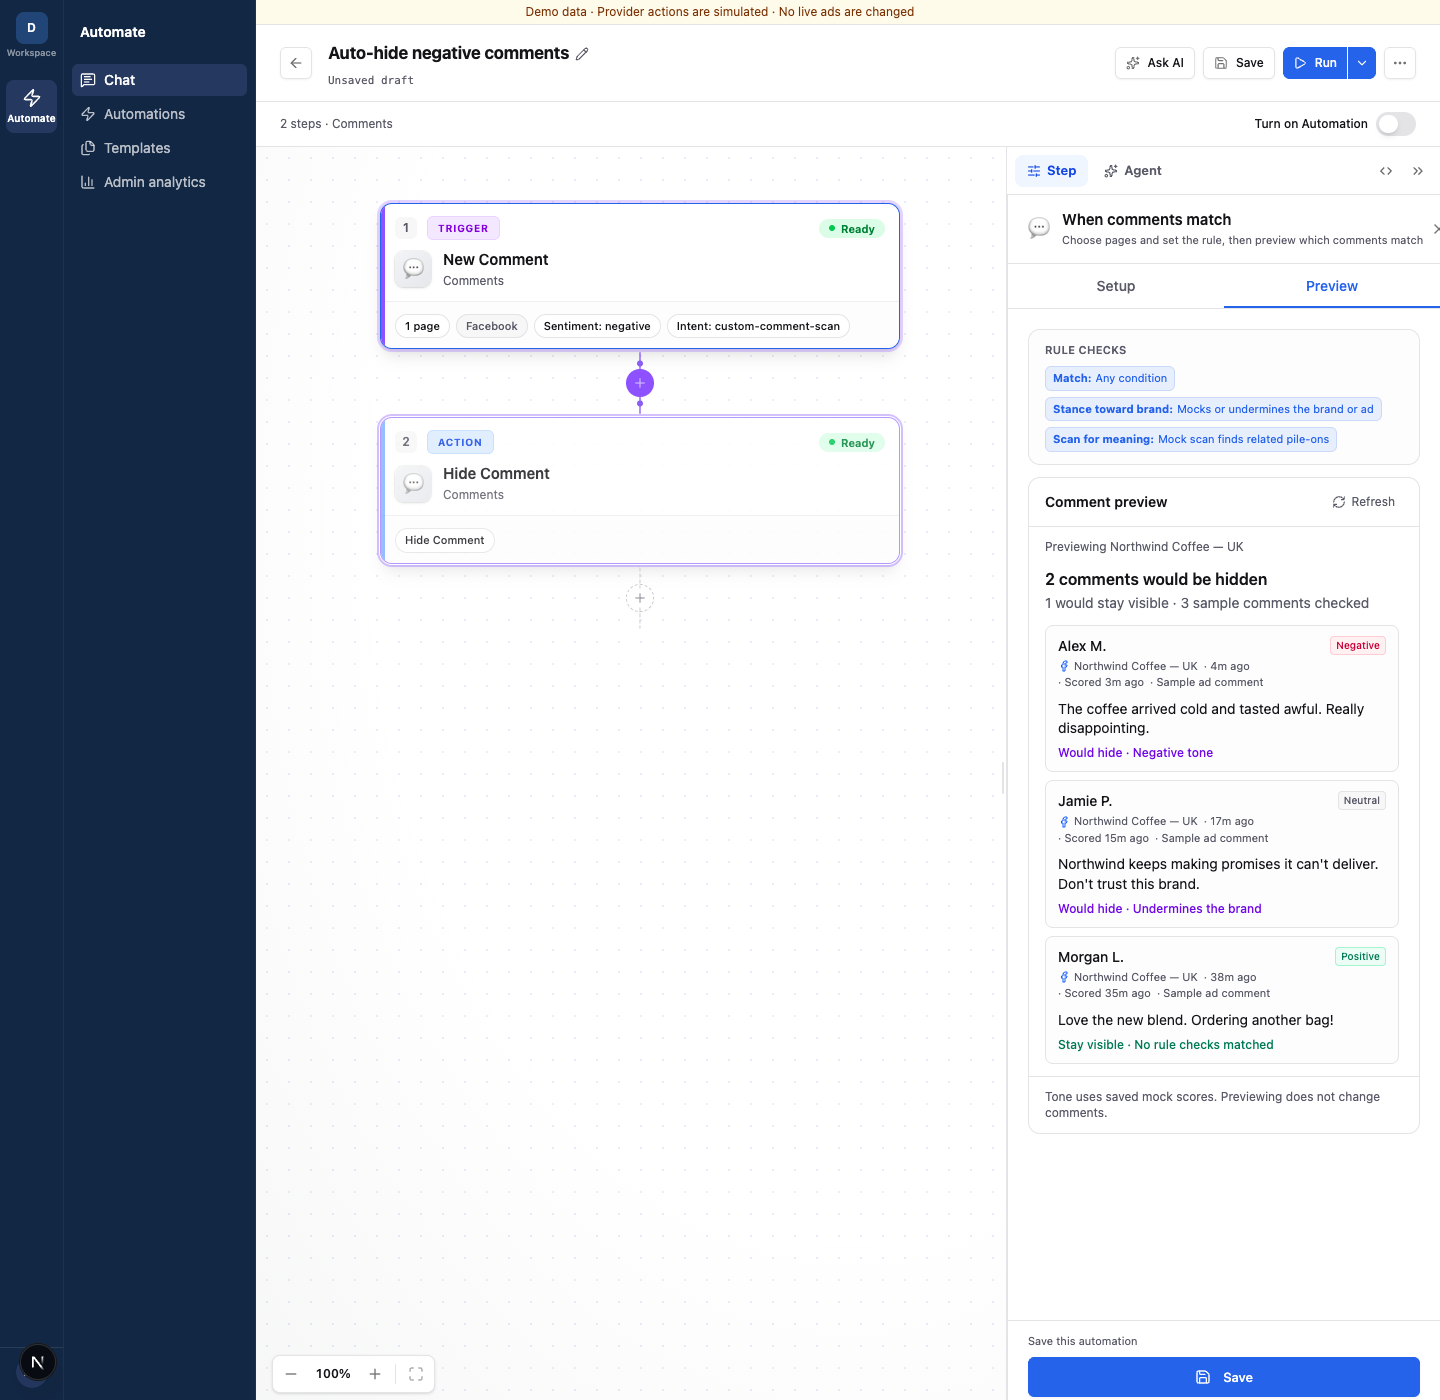
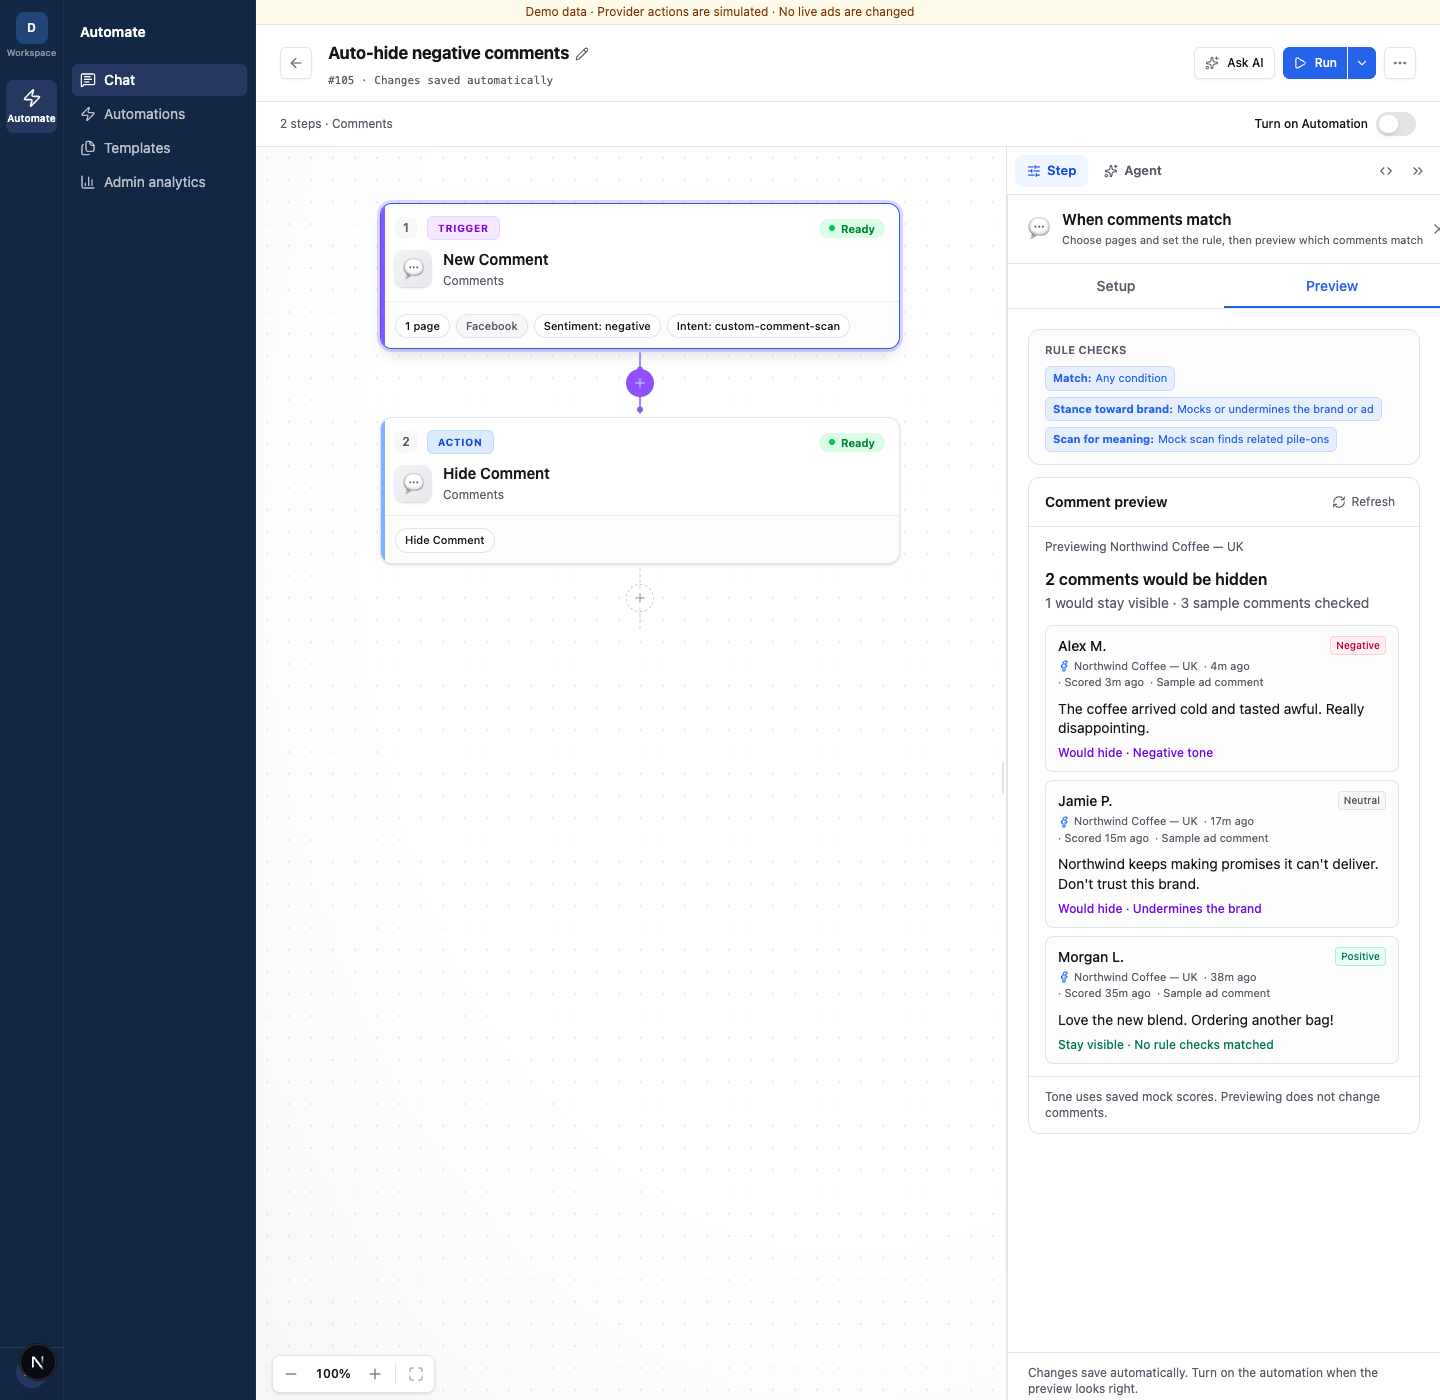
Autosave comment automation drafts

Changed region(s): [[0.6875, 0.9521, 1.0, 1.0], [0.7812, 0.0307, 0.875, 0.0614], [0.4375, 0.2764, 0.4688, 0.3071]]

diff --git a/app/(dashboard)/automation/components/automation-header.tsx b/app/(dashboard)/automation/components/automation-header.tsx
@@ -59,7 +59,7 @@ import {
 } from "../_features/comment-automation/hooks/use-comment-automation-members";
 import { RunPagesDialog } from "../_features/comment-automation/components/run-pages-dialog";
 import { automationTemplates } from "../lib/automation-templates";
-import { actionEventToType, isCommentAutomationFlow } from "../lib/comment-flow-mapper";
+import { actionEventToType, isCommentAutomationFlow, readCommentPageIdsFromFlow } from "../lib/comment-flow-mapper";
 import { buildCommentActionRuleSummary } from "../lib/comment-action-setup-summary";
 import { useUser } from "@/lib/providers/user-provider";
 import { canManageAutomationBySource, canManageAutomationRules } from "@/lib/automation/automation-access";
@@ -85,6 +85,7 @@ export function AutomationHeader({ onBackToTable, isAssistantActive, onAskAiTogg
   const {
     flow,
     editorIdentity,
+    updateFlowName,
     setFlowActive,
     exportFlow,
     importFlowAsNew,
@@ -130,9 +131,53 @@ export function AutomationHeader({ onBackToTable, isAssistantActive, onAskAiTogg
   // saves are known, so it stays null until the user saves.
   const [savedAt, setSavedAt] = useState<Date | null>(null);
   const [identityNow, setIdentityNow] = useState<Date | null>(null);
+  const [autoSaveState, setAutoSaveState] = useState<"waiting" | "pending" | "saving" | "saved" | "error">("waiting");
+  const [autoSaveRetry, setAutoSaveRetry] = useState(0);
+  const lastAutoSavedFingerprintRef = useRef<string | null>(null);
+  const failedAutoSaveFingerprintRef = useRef<string | null>(null);
 
   const isEditorIdentityReady = editorIdentity.canMutate;
   const getExistingAutomationId = (): number | null => editorIdentity.existingRuleId;
+  const commentPageCount = isCommentAutomation ? readCommentPageIdsFromFlow(flow.nodes).length : 0;
+  const commentFingerprint = JSON.stringify({ name: flow.name, nodes: flow.nodes, accountId: flow.selectedAccountId });
+
+  useEffect(() => {
+    if (!isCommentAutomation || !canManageAutomations || !isEditorIdentityReady) return;
+    if (lastAutoSavedFingerprintRef.current === null && editorIdentity.origin === "persisted") {
+      lastAutoSavedFingerprintRef.current = commentFingerprint;
+      setAutoSaveState("saved");
+      return;
+    }
+    if (commentPageCount === 0) {
+      setAutoSaveState("waiting");
+      return;
+    }
+    if (commentFingerprint === lastAutoSavedFingerprintRef.current) {
+      setAutoSaveState("saved");
+      return;
+    }
+    if (commentFingerprint === failedAutoSaveFingerprintRef.current || isSaving) return;
+    setAutoSaveState("pending");
+    const timer = setTimeout(() => {
+      setIsSaving(true);
+      setAutoSaveState("saving");
+      void saveAutomation({ mode: editorIdentity.existingRuleId === null ? "create" : "update", name: flow.name })
+        .then((result) => {
+          if (result.ok) {
+            lastAutoSavedFingerprintRef.current = commentFingerprint;
+            failedAutoSaveFingerprintRef.current = null;
+            setSavedAt(new Date());
+            setAutoSaveState("saved");
+          } else {
+            failedAutoSaveFingerprintRef.current = commentFingerprint;
+            setAutoSaveState("error");
+            toast.error(`Changes could not be saved: ${result.error}`);
+          }
+        })
+        .finally(() => setIsSaving(false));
+    }, 1500);
+    return () => clearTimeout(timer);
+  }, [autoSaveRetry, canManageAutomations, commentFingerprint, commentPageCount, editorIdentity.existingRuleId, editorIdentity.origin, flow.name, isCommentAutomation, isEditorIdentityReady, isSaving, saveAutomation]);
 
   // Run history used to be a grey button with no explanation on an unsaved
   // draft, which reads as broken rather than "there is nothing to show yet".
@@ -234,6 +279,14 @@ export function AutomationHeader({ onBackToTable, isAssistantActive, onAskAiTogg
       return;
     }
 
+    if (isCommentAutomation) {
+      const nextName = localName.trim();
+      initialNameRef.current = nextName;
+      updateFlowName(nextName);
+      setIsEditingName(false);
+      return;
+    }
+
     setIsSavingName(true);
     try {
       const result = await saveAutomation({ mode: "update", name: localName });
@@ -274,10 +327,14 @@ export function AutomationHeader({ onBackToTable, isAssistantActive, onAskAiTogg
     }
   };
 
-  // Blurring with no unsaved edit just closes the field. With an unsaved
-  // edit, stay open so the Save/Cancel buttons remain reachable rather than
-  // silently reverting or auto-saving the whole automation on blur.
+  // Comment names join the automatically saved draft on blur. Other flow
+  // automations retain their explicit name confirmation controls.
   const handleNameInputBlur = () => {
+    if (isCommentAutomation) {
+      if (isNameModified) void handleSaveName();
+      else setIsEditingName(false);
+      return;
+    }
     if (!isNameModified) {
       setIsEditingName(false);
     }
@@ -436,11 +493,8 @@ export function AutomationHeader({ onBackToTable, isAssistantActive, onAskAiTogg
       return;
     }
 
-    // Run uses the in-memory flow — it does not save. The config panel footer
-    // and header both keep Save as its own action so the builder path is:
-    // preview → run → save. Exception: a live recurring automation must not
-    // be implicitly overwritten; Run there uses the last saved version and
-    // Save (with its dialog) is how edits land.
+    // Run uses the current in-memory flow. Comment edits save automatically;
+    // other recurring flow automations retain their explicit save behavior.
     if (isActivelyRunning) {
       setShowExecutionPanel(true);
       await runAutomation();
@@ -511,7 +565,7 @@ export function AutomationHeader({ onBackToTable, isAssistantActive, onAskAiTogg
                     )}
                   </button>
                 )}
-                {isNameModified && (
+                {isNameModified && !isCommentAutomation && (
                   <div className="flex flex-shrink-0 items-center gap-1.5">
                     <Button
                       onClick={handleSaveName}
@@ -540,7 +594,21 @@ export function AutomationHeader({ onBackToTable, isAssistantActive, onAskAiTogg
                   </div>
                 )}
               </div>
-              <span className="truncate px-1.5 font-mono text-[11px] text-muted-foreground">{identityLine}</span>
+              <span className="truncate px-1.5 font-mono text-[11px] text-muted-foreground" role="status">
+                {isCommentAutomation
+                  ? autoSaveState === "waiting" ? "Choose a page to start · changes save automatically"
+                    : autoSaveState === "pending" ? "Changes saving shortly…"
+                      : autoSaveState === "saving" ? "Saving changes…"
+                        : autoSaveState === "error" ? "Changes not saved"
+                          : `${getExistingAutomationId() !== null ? `#${getExistingAutomationId()} · ` : ""}Changes saved automatically`
+                  : identityLine}
+              </span>
+              {isCommentAutomation && autoSaveState === "error" && (
+                <button type="button" className="self-start px-1.5 text-xs font-medium text-primary underline" onClick={() => {
+                  failedAutoSaveFingerprintRef.current = null;
+                  setAutoSaveRetry((value) => value + 1);
+                }}>Retry</button>
+              )}
             </div>
           </div>
 
@@ -554,9 +622,7 @@ export function AutomationHeader({ onBackToTable, isAssistantActive, onAskAiTogg
                 }
                 setAssistantOpen(assistantOpen ? null : true);
               }}
-              // Identical to Save: a solid violet pill sitting beside Save and Run
-              // made the assistant the loudest thing in the header and pulled focus
-              // away from the actual work.
+              // An outlined assistant control keeps Run as the main action.
               variant="outline"
               size="sm"
               className="h-8 gap-2"
@@ -567,7 +633,7 @@ export function AutomationHeader({ onBackToTable, isAssistantActive, onAskAiTogg
               <Sparkles className="h-4 w-4" />
               <span className="hidden lg:inline">Ask AI</span>
             </Button>
-            <Button
+            {!isCommentAutomation && <Button
               onClick={handleSave}
               disabled={isSaving || !canManageAutomations || !isEditorIdentityReady}
               variant="outline"
@@ -577,7 +643,7 @@ export function AutomationHeader({ onBackToTable, isAssistantActive, onAskAiTogg
             >
               {isSaving ? <Loader2 className="h-4 w-4 animate-spin" /> : <Save className="h-4 w-4" />}
               <span className="hidden sm:inline">{isSaving ? "Saving..." : "Save"}</span>
-            </Button>
+            </Button>}
 
             {/* Run — the only filled button. The caret carries the run variants. */}
             {isExecuting ? (

diff --git a/app/(dashboard)/automation/components/config-panel.tsx b/app/(dashboard)/automation/components/config-panel.tsx
@@ -6,8 +6,7 @@ import { Button } from "@/components/ui/button";
 import { Label } from "@/components/ui/label";
 import { Select, SelectContent, SelectItem, SelectTrigger, SelectValue } from "@/components/ui/select";
 import { Input } from "@/components/ui/input";
-import { Save, X } from "lucide-react";
-import { toast } from "sonner";
+import { X } from "lucide-react";
 import { Skeleton } from "@/components/ui/skeleton";
 import { cn } from "@/lib/utils";
 import { getServiceInfo } from "../lib/service-icons";
@@ -269,7 +268,7 @@ interface ConfigPanelProps {
 
 export function ConfigPanel({ node, callbacks }: ConfigPanelProps) {
   const { onClose } = callbacks;
-  const { updateNode, flow, editorIdentity, saveAutomation } = useAutomation();
+  const { updateNode, flow, editorIdentity } = useAutomation();
   const { currentWorkspace } = useUser();
   const isEssentialPlan = useIsEssentialAutomationPlan();
   const [panelTab, setPanelTab] = useQueryState("panel", parseAsString.withDefault("setup"));
@@ -283,18 +282,6 @@ export function ConfigPanel({ node, callbacks }: ConfigPanelProps) {
   // Short skeleton window while child selectors (ad accounts, campaigns) boot up,
   // so users don't see the content shift as each piece mounts.
   const [isHydrating, setIsHydrating] = useState(true);
-  const [isSavingPreview, setIsSavingPreview] = useState(false);
-
-  const saveCommentPreview = async () => {
-    setIsSavingPreview(true);
-    try {
-      const result = await saveAutomation({ mode: editorIdentity.existingRuleId !== null ? "update" : "create" });
-      if (result.ok) toast.success(`${result.name} saved`);
-      else toast.error(result.error);
-    } finally {
-      setIsSavingPreview(false);
-    }
-  };
 
   // Push local edits into flow state. Depend only on local state — not the `node`
   // prop reference — or every updateNode() would recreate the node object and
@@ -1293,13 +1280,10 @@ export function ConfigPanel({ node, callbacks }: ConfigPanelProps) {
 
       {activeTab === "preview" && isCommentStep && (
         <div className="border-t px-4 py-3 md:px-5">
-          <p className="mb-2 text-[11px] text-muted-foreground">Save this automation</p>
-          <Button className="h-10 w-full" disabled={!editorIdentity.canMutate || isSavingPreview} onClick={() => void saveCommentPreview()}>
-            <Save className="mr-1.5 h-4 w-4" />{isSavingPreview ? "Saving…" : "Save"}
-          </Button>
+          <p className="text-xs text-muted-foreground">Changes save automatically. Turn on the automation when the preview looks right.</p>
         </div>
       )}
-      {/* Setup continues to the preview before a comment automation can be saved. */}
+      {/* Setup continues to the preview before a comment automation can be turned on. */}
       {activeTab === "setup" && (
         <div className="border-t px-4 py-3 md:px-5 md:py-3.5">
           <Button

diff --git a/lib/mock/assistant-script.ts b/lib/mock/assistant-script.ts
@@ -432,7 +432,7 @@ function commentTemplateTurn(): Omit<MockTurn, "conversationId"> {
         ],
       },
     ],
-    closing: "**Next:** Confirm the page below. I’ll add it to the draft with checks for negative tone, brand-undermining comments, and hostile pile-ons. Then you can preview what would be hidden or stay visible before saving. **No pages have been added yet.**",
+    closing: "**Next:** Confirm the page below. I’ll add it to the draft with checks for negative tone, brand-undermining comments, and hostile pile-ons. Changes save automatically; preview what would be hidden or stay visible before turning it on. **No pages have been added yet.**",
     meta: { problemCategory: "none", askedQuestion: true },
   };
 }
@@ -514,7 +514,7 @@ function commentPagesTurn(message: string): Omit<MockTurn, "conversationId"> {
         ],
       },
     ],
-    closing: "The draft now watches only the pages you confirmed. Next, **preview the mock matches**, adjust tone or meaning scan if needed, then **Save** and turn it on when you’re ready. No live comments are changed in this demo.",
+    closing: "The draft now watches only the pages you confirmed and saves automatically. Next, **preview the mock matches**, adjust tone or meaning scan if needed, then turn it on when you’re ready. No live comments are changed in this demo.",
   };
 }
 

diff --git a/app/(dashboard)/automation/components/assistant-panel.tsx b/app/(dashboard)/automation/components/assistant-panel.tsx
@@ -534,7 +534,7 @@ export function AssistantPanel({
           </div>
         )}
         <p className="px-1 text-[11px] text-muted-foreground">
-          Enter to send · Shift+Enter for a new line. Changes stay in the draft until you save.
+          Enter to send · Shift+Enter for a new line. Changes save automatically; turn on the automation when ready.
         </p>
       </form>
     </div>
@@ -570,7 +570,7 @@ function EmptyState({
         </h3>
         <p className="mx-auto mt-1 max-w-xs text-xs text-muted-foreground">
           {hasExistingFlow
-            ? "Describe a change and the agent edits the steps already on the canvas. Review the draft before saving or enabling."
+            ? "Describe a change and the agent edits the steps already on the canvas. Review the automatically saved draft before turning it on."
             : "Describe what you want to automate. The agent uses AdManage MCP tools to draft the flow and preview which ads it would affect."}
         </p>
         {hasExistingFlow && (

diff --git a/app/(dashboard)/automation/lib/builder-identity-line.ts b/app/(dashboard)/automation/lib/builder-identity-line.ts
@@ -1,9 +1,8 @@
 /**
  * The mono line under the automation name: "#2507 · saved 2m ago".
  *
- * The builder autosaves nothing, so "did my last edit stick?" is a real
- * question. Showing the rule id next to a save recency answers it without a
- * toast the user has to catch.
+ * Flow automations use explicit saves. Comment automations show their separate
+ * automatic save state in the header instead of this formatter.
  *
  * `now` is injected so the formatter stays pure and testable.
  */

diff --git a/README.md b/README.md
@@ -14,11 +14,11 @@ In the live coding session, you will be asked to change this demo so customers c
 2. **How can I check activity?** Show which comments were checked or hidden, on which Page, why, and whether the automation is on.
 3. **How often will this run?** Let customers turn on real-time checks for each new ad comment **and** run a one-time sweep to hide matching comments already posted. Show the current status and last result for each.
 
-Start at **Automate → Chat → Hide negative comments on my ads**. The Agent should find connected pages, confirm which to watch **before** editing the draft, then guide customers through preview, save, and turn-on. Preview and confirm the existing-comment sweep before running it; show its result in Activity.
+Start at **Automate → Chat → Hide negative comments on my ads**. The Agent should find connected pages, confirm which to watch **before** editing the draft, and save changes automatically. Guide customers through preview and turn-on with no Save step. Preview and confirm the existing-comment sweep before running it; show its result in Activity.
 
 Improve **Admin analytics**: show setup drop-off, Agent failures, successful runs, and the biggest issue to fix. Deduplicate retries.
 
-**Main KPI — first successful automation rate:** Percentage of starters who save, turn on, and get a successful simulated hiding run within 7 days, from either mode. Show numerator, denominator, and time window; include only starts at least 7 days old.
+**Main KPI — first successful automation rate:** Percentage of starters who turn on the automation and get a successful simulated hiding run within 7 days, from either mode. Show numerator, denominator, and time window; include only starts at least 7 days old.
 
 Label mock results as simulated.
 
